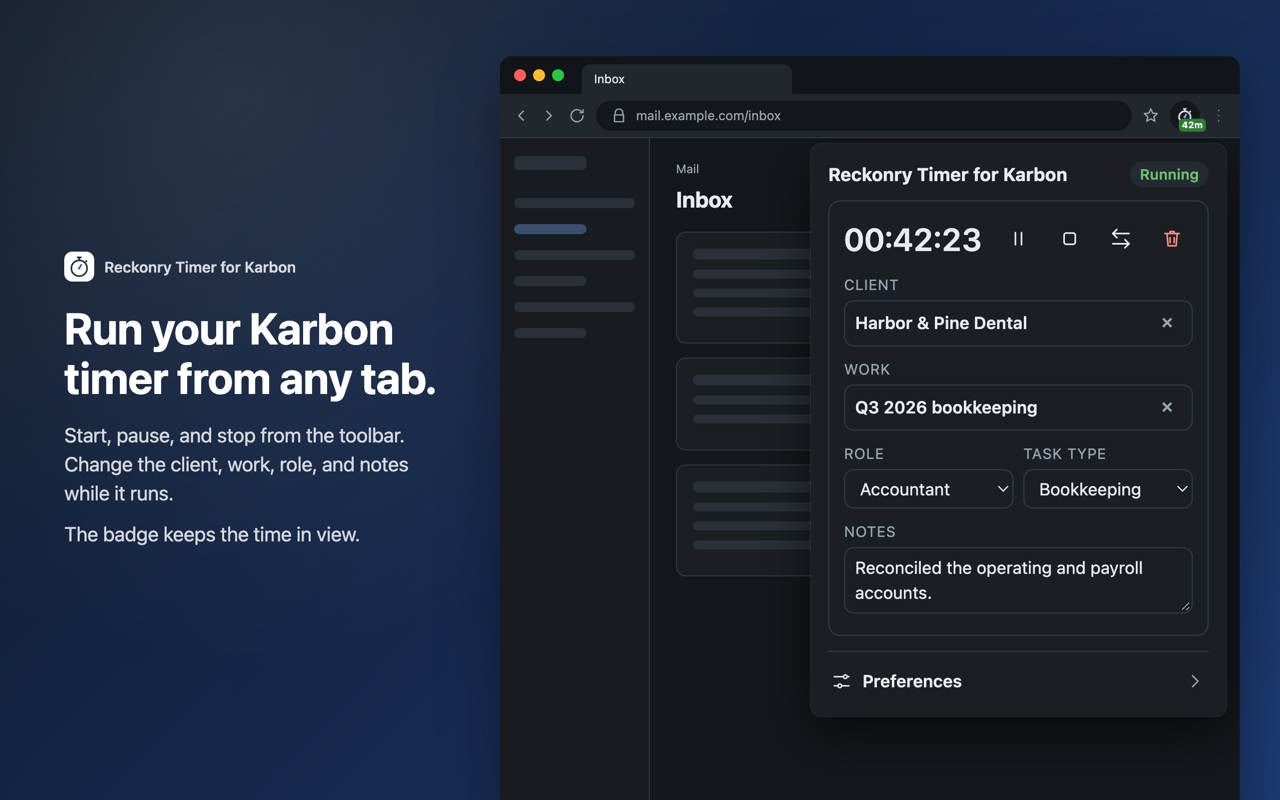
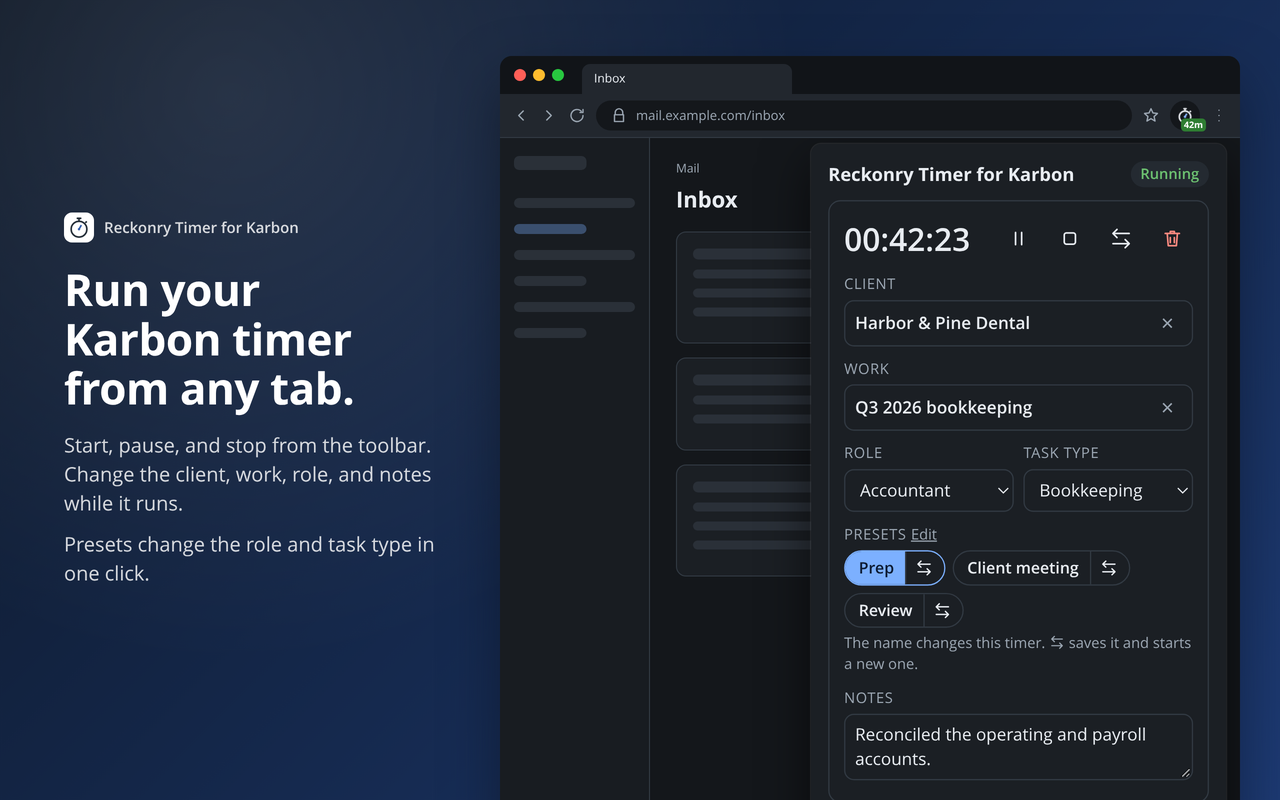
Store assets: render on Linux, add presets and the small promo tile
render.sh finds a Flatpak or packaged Chrome, flattens with Pillow when sips
is missing, and uses Open Sans off the Mac. The stub carries presets, shot 5
hides them, headlines are balanced, and small.html renders the 440x280 tile.

diff --git a/store/screenshots/stub.js b/store/screenshots/stub.js
@@ -41,7 +41,7 @@
     // The timer card's notes after a lock pause and its resume.
     5: { state: { ...onW1, state: 'Started', taskTypeKey: 't1', recordedSeconds: 3120, startDateTime: ago(1260),
       description: `${stamp(14, 58, 'Timer paused: screen locked')}\n${stamp(15, 12, 'Timer resumed: screen unlocked')}` },
-      after: () => { $('curNotes').style.height = '104px'; } },
+      sync: {}, after: () => { $('curNotes').style.height = '104px'; } },
     // The settings page, open to Away from the computer.
     settings: { state: { state: 'Stopped' },
       after: () => setTimeout(() => { document.documentElement.style.scrollBehavior = 'auto'; $('g-away').scrollIntoView({ block: 'start' }); }, 600) },
@@ -55,7 +55,12 @@
     directApi: { ok: true }, directWrites: { ok: true }, roleKey: 'r1', taskTypeKey: 't1',
     ...scene.local,
   };
-  const sync = {};
+  // Presets show in the timer card and the start form, unless a scene sets its own sync.
+  const sync = scene.sync || { presets: [
+    { id: 'p1', name: 'Prep', roleKey: 'r1', taskTypeKey: 't1' },
+    { id: 'p2', name: 'Client meeting', roleKey: 'r2', taskTypeKey: 't3' },
+    { id: 'p3', name: 'Review', roleKey: 'r3', taskTypeKey: 't2' },
+  ] };
 
   const cmd = (c, a) => {
     if (c === 'getState') return { ok: true, result: { ...S } };
@@ -84,7 +89,7 @@
     return null;
   };
   window.chrome = {
-    runtime: { sendMessage: msg, onMessage: ev, getManifest: () => ({ version: '0.7.29', name: 'Reckonry Timer for Karbon' }), getURL: (p) => p },
+    runtime: { sendMessage: msg, onMessage: ev, getManifest: () => ({ version: '0.7.37', name: 'Reckonry Timer for Karbon' }), getURL: (p) => p },
     storage: { local: area(local, 'local'), sync: area(sync, 'sync'), session: area({}, 'session'), onChanged: { addListener: (f) => listeners.push(f) } },
     tabs: { query: async () => [], create() {}, reload() {} },
     action: { getUserSettings: async () => ({ isOnToolbar: true }) },

diff --git a/store/screenshots/small.html b/store/screenshots/small.html
@@ -1,0 +1,27 @@
+<!doctype html>
+<html lang="en">
+<head>
+<meta charset="utf-8">
+<title>Small promo tile</title>
+<link rel="stylesheet" href="shots.css">
+<style>
+  /* 440x280 tile: the name and one line, with the timer card bleeding off the right edge. */
+  html, body { width:440px; height:280px; }
+  .copy { left:28px; width:220px; }
+  .eyebrow { margin-bottom:14px; }
+  .eyebrow img { width:44px; height:44px; border-radius:11px; padding:4px; }
+  .copy h1 { font-size:27px; line-height:1.1; margin:0 0 10px; }
+  .copy p { font-size:14px; line-height:1.35; }
+  .popup { right:auto; left:262px; top:34px; border-radius:10px; transform-origin:top left; }
+</style>
+</head>
+<body>
+<div class="copy">
+  <div class="eyebrow"><img src="../src/icons/icon128-face.png" alt=""></div>
+  <h1>Reckonry Timer for Karbon</h1>
+  <p>Auto-start, auto-switch, and away pause.</p>
+</div>
+<div class="popup scale" style="--s:.92"><iframe src="../src/popup.html?shot=1" title="Toolbar panel"></iframe></div>
+<script src="frame.js"></script>
+</body>
+</html>

diff --git a/store/screenshots/shots.css b/store/screenshots/shots.css
@@ -18,8 +18,8 @@ body { position:relative; font:16px/1.45 system-ui, -apple-system, "Segoe UI", s
 .copy.top { justify-content:flex-start; padding-top:96px; }
 .eyebrow { display:flex; align-items:center; gap:10px; font-size:15px; font-weight:600; color:var(--ink2); margin-bottom:22px; }
 .eyebrow img { width:30px; height:30px; background:#fff; border-radius:8px; padding:3px; }
-.copy h1 { font-size:44px; line-height:1.12; margin:0 0 18px; letter-spacing:-.01em; }
-.copy p { font-size:20px; line-height:1.45; margin:0; color:var(--ink2); }
+.copy h1 { font-size:44px; line-height:1.12; margin:0 0 18px; letter-spacing:-.01em; text-wrap:balance; }
+.copy p { font-size:20px; line-height:1.45; margin:0; color:var(--ink2); text-wrap:pretty; }
 .copy p + p { margin-top:12px; }
 
 /* Browser window, bleeding off the bottom */

diff --git a/store/screenshots/shot1-timer.html b/store/screenshots/shot1-timer.html
@@ -10,7 +10,7 @@
   <div class="eyebrow"><img src="../src/icons/icon128-face.png" alt="">Reckonry Timer for Karbon</div>
   <h1>Run your Karbon timer from any tab.</h1>
   <p>Start, pause, and stop from the toolbar. Change the client, work, role, and notes while it runs.</p>
-  <p>The badge keeps the time in view.</p>
+  <p>Presets change the role and task type in one click.</p>
 </div>
 <div class="browser" data-tab="Inbox" data-url="mail.example.com/inbox" data-badge="42m" data-open="1" data-title="Inbox" data-crumb="Mail">
   <div class="popup scale"><iframe src="../src/popup.html?shot=1" title="Toolbar panel"></iframe></div>
